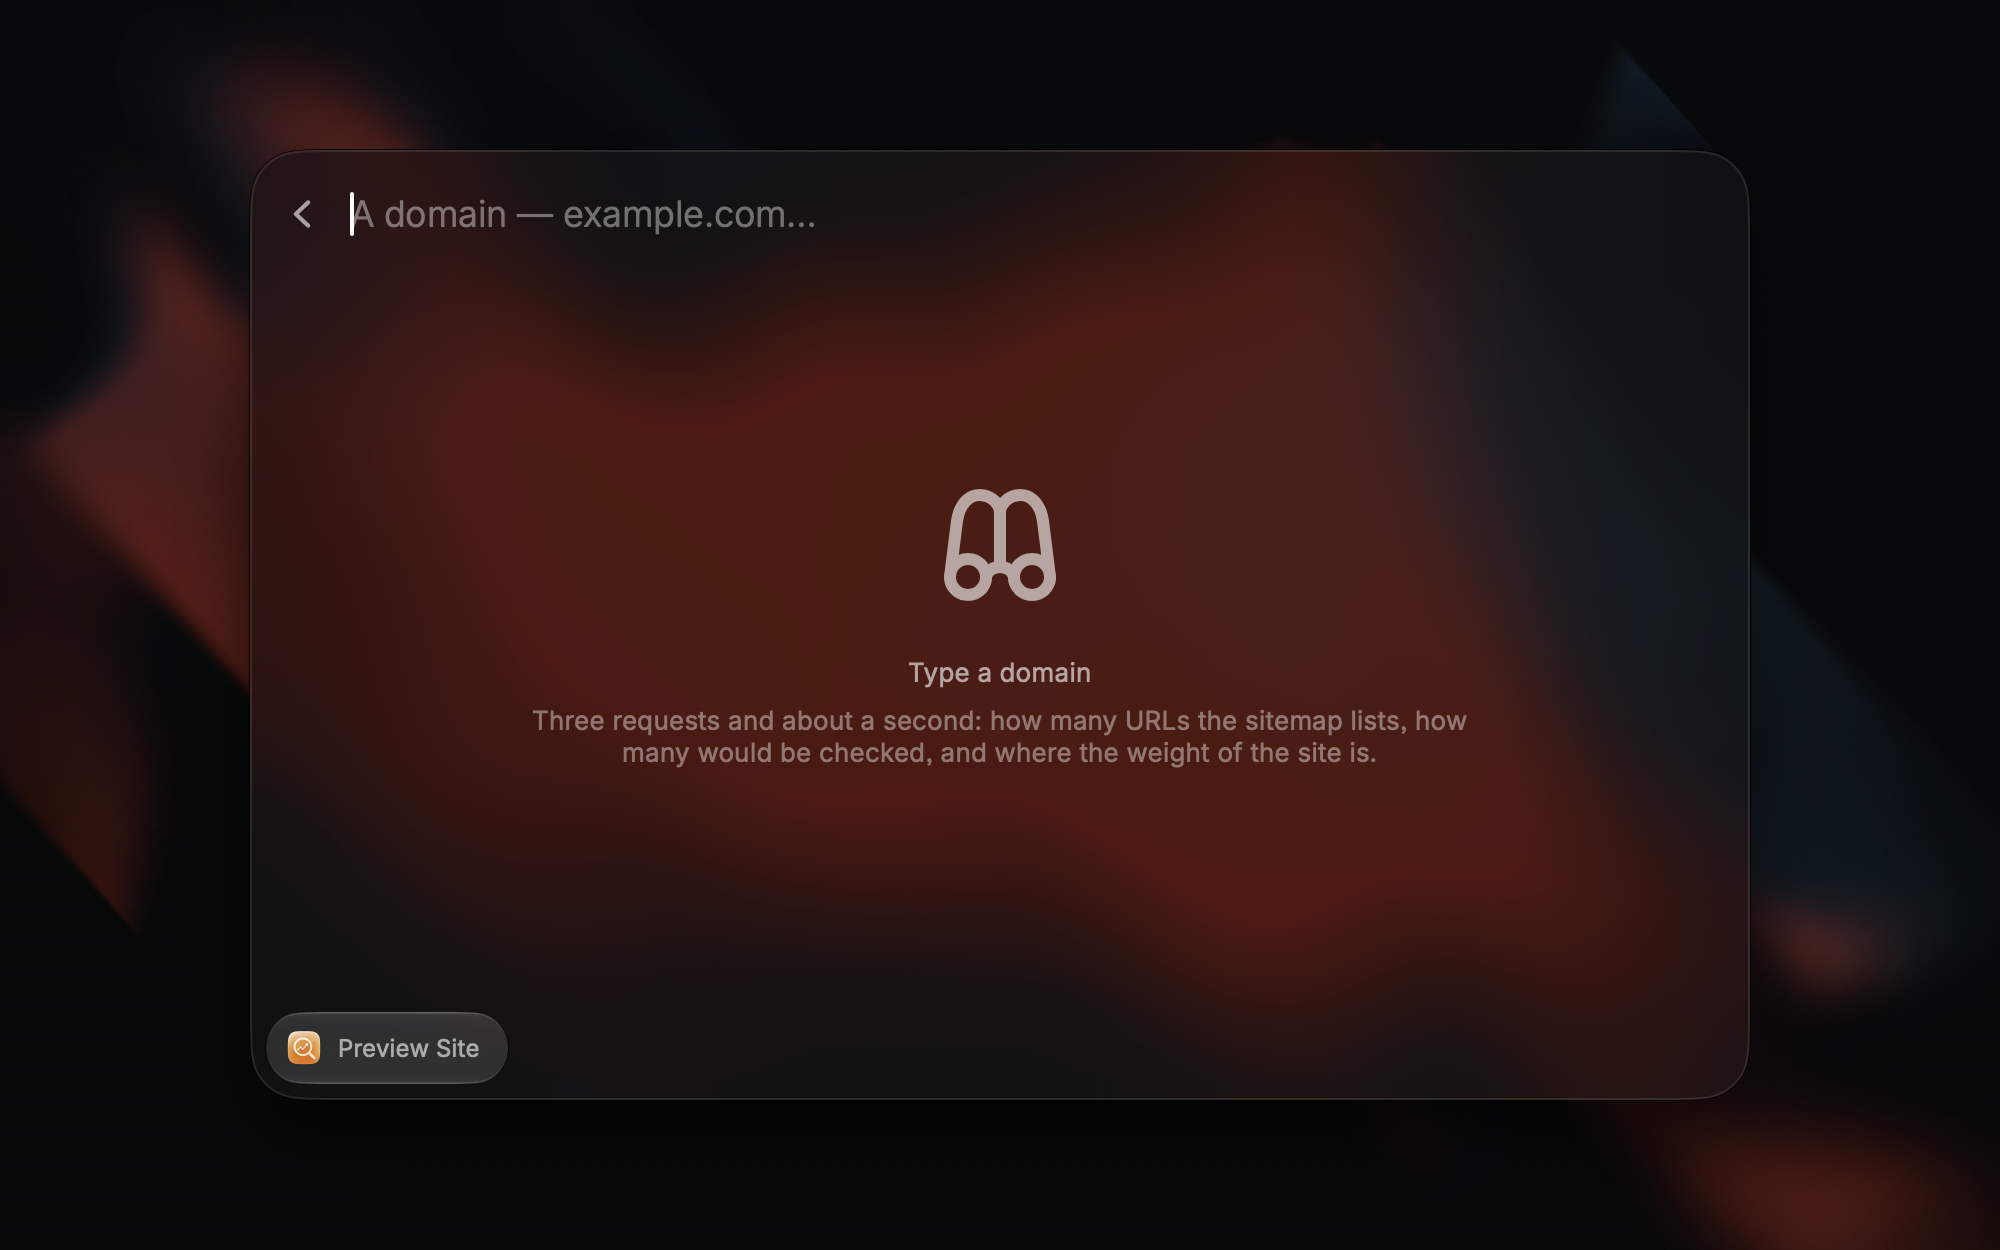
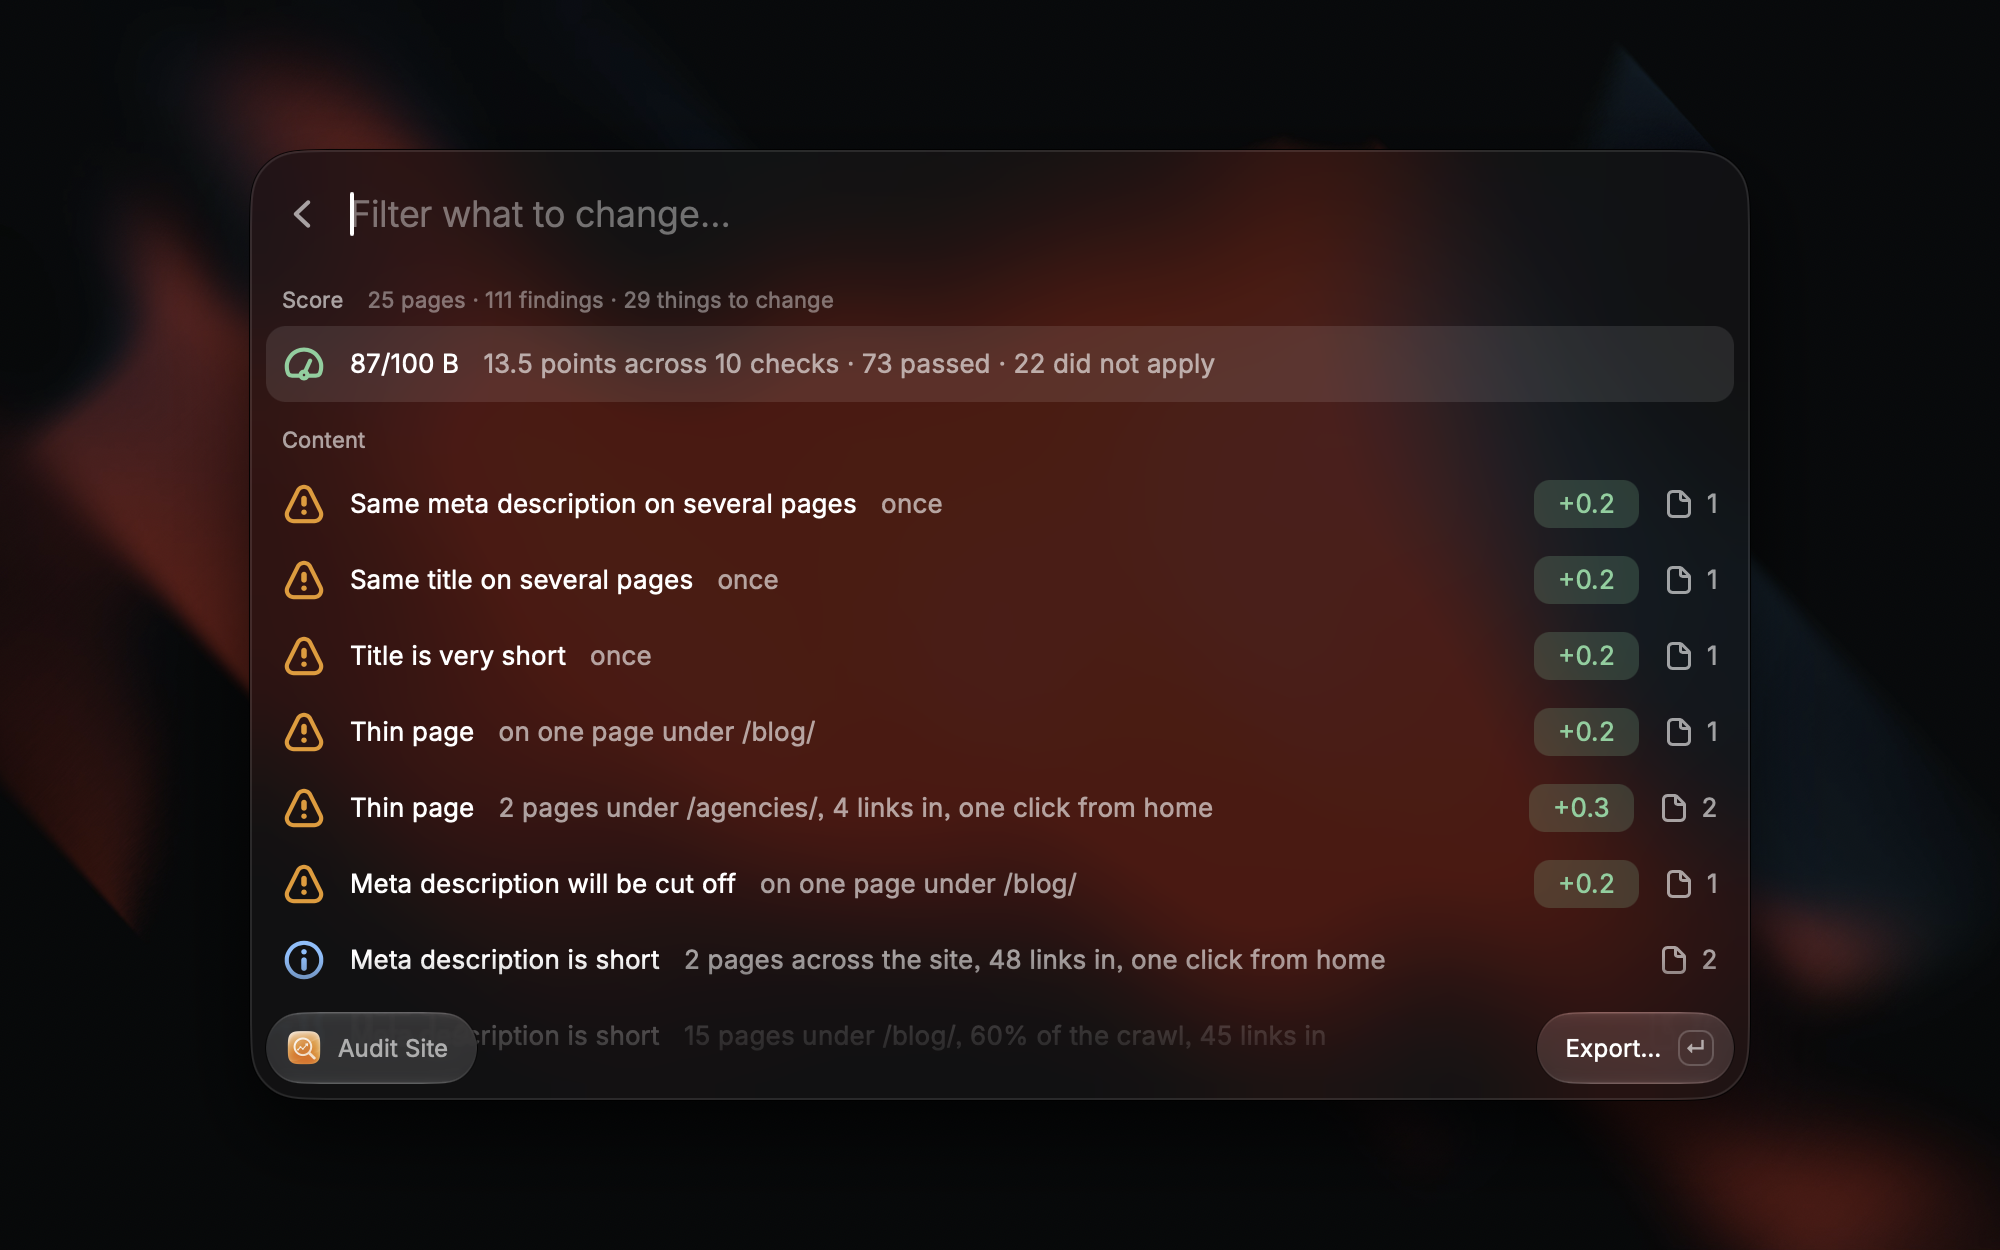
The extension changelog says what it now does
The Store changelog still reads [Initial release] because nothing has shipped
to Store users yet, so the new work belongs in that section rather than in a
version entry: the domain audit, the skipped checks that can be run, and the
40-page ceiling with the reason for it.

Claude-Session: https://claude.ai/code/session_016TiZSbkXruUkgUoZPQxWmT

diff --git a/raycast/CHANGELOG.md b/raycast/CHANGELOG.md
@@ -19,12 +19,30 @@ one from `seo-audit --json` are the same report.
 - **Audit a Site** — crawls and lists what to change, worst first and grouped,
   so 171 findings read as 55 things to fix. Capped by preference, and it counts
   against that ceiling while it runs.
+- **The rest of the domain** — what *else* is on this domain, and whether any of
+  it is damaging the site that was audited: a staging copy left open to the
+  index, a subdomain whose CNAME points at a service that is gone and which
+  anybody could claim, a second host serving the same site. Hostnames come from
+  certificate transparency and are then resolved and fetched, because the logs
+  are a complete list of names and a terrible list of live ones — nothing from
+  them is reported unverified. The inventory is shown whether or not anything
+  was wrong with it.
 - **Recent Reports** — runs the macOS app has kept, read from the same folder it
   writes, so a crawl finished in the window is here a second later.
 
+A check that did not run says whether anybody can do anything about it. "No page
+declares hreflang" is a fact about the site; "Outbound links were not checked" is
+a run that was not asked to — and that row can be pressed to run again with the
+flag on.
+
 Every flag that shapes a run is a preference: page limit, crawl speed, outbound
-links, sitemap override, URL exclusions, only-what-changed-since, the browser
-and system to identify as, PageSpeed, and the list of checks to silence.
+links, the rest of the domain, sitemap override, URL exclusions,
+only-what-changed-since, the browser and system to identify as, PageSpeed, and
+the list of checks to silence. The page limit is capped at 40: a Raycast command
+gets a 100MB heap and a crawl holds every page until the cross-page checks are
+done, so a bigger number would be killed mid-run rather than reported. Big sites
+belong in the macOS app or the terminal, which have the whole machine behind
+them.
 
 `⌘E` exports HTML, Markdown, CSV, JSON or a corrected sitemap through the
 engine's own writers.
